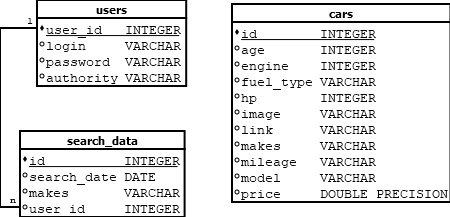
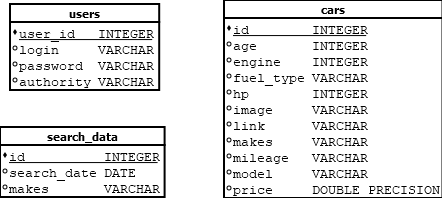
11.16

Changed region(s): [[0.5, 0.0, 1.0, 1.0], [0.0, 0.0, 0.4412, 0.4848], [0.0, 0.5758, 0.4118, 1.0]]

diff --git a/szakdolgozat/chapters/3_design.tex b/szakdolgozat/chapters/3_design.tex
@@ -1,12 +1,12 @@
 \Chapter{Hasonló célú szoftverek és szolgáltatások}
 
-Ebben a fejezetben arról lesz szó, hogy milyen fajta használtautó hirdető és milyen aggregáló webalkalmazások léteznek. Betekintést kapunk arra, hogy milyen hasonló szoftverek érhetők el.
+Ebben a fejezetben arról lesz szó, hogy milyen fajta használt autó hirdető és milyen aggregáló webalkalmazások léteznek. Betekintést kapunk arra, hogy milyen hasonló szoftverek érhetők el.
 
-\Section{Használtautó hirdető oldalak}
+\Section{Használt autó hirdető oldalak}
 
 Mióta elkezdték gyártani a különböző gépjárműveket, szinte vele egy időben lett lehető-
-ségük az embereknek használtautók megvásárlására. Eleinte csak a heti lapok hirdetés rovatában látták, ha valaki árulta az autóját, és ott csak leírást láttak az autóról nem volt kép. Később sorba jelentek meg különböző autós témájú újságok, ahol lehetett autókat hirdetni méghozzá már képpel, így már látható is volt az autó. 
-Az Internet elterjedésével, elkezdtek fejleszteni különböző webalkalmazásokat. Volt közöttük olyan is, amit használtautó hirdetésre fejlesztettek ki. Számtalan ilyen oldal található meg, de van kettő, ami nekem személyes kedvencem. Az egyik a JóAutók.hu a másik pedig a Használtautó.hu.
+ségük az embereknek használt autók megvásárlására. Eleinte csak a heti lapok hirdetés rovatában látták, ha valaki árulta az autóját, és ott csak leírást láttak az autóról nem volt kép. Később sorba jelentek meg különböző autós témájú újságok, ahol lehetett autókat hirdetni méghozzá már képpel, így már látható is volt az autó. 
+Az Internet elterjedésével, elkezdtek fejleszteni különböző webalkalmazásokat. Volt közöttük olyan is, amit használt autó hirdetésre fejlesztettek ki. Számtalan ilyen oldal található meg, de van kettő, ami nekem személyes kedvencem. Az egyik a JóAutók.hu a másik pedig a Használtautó.hu.
 
 \subsection{JóAutók}
 A JóAutók \cite{JoAuto} csak autók hirdetésére alkalmas, más gépjárművek vagy motorkerékpá-
@@ -32,8 +32,8 @@ Ha nekünk nem tetszik az, hogy az összes autót kiadja az oldal, akkor van leh
 
 \subsection{Használtautó.hu}
 
-A Használtautó.hu szerintem Magyarország legnépszerűbb használtjármű hirdető olda-
-la, mivel itt van a legtöbb használt-autó hirdetés (2022.11.03-án Használtautó.hu-n 72 ezer hirdetés volt elérhető még a JóAutók.hu-n csak 14 ezer hirdetés állt rendelkezésre). Ezen a weboldalon személyautótól kezdve munkagépeken keresztül hajók, autóbuszok és lakókocsik vásárlására és eladására is van lehetőség, tehát egy nagyon széles körű weboldalról beszélünk amit a \ref{fig:hasznaltauto}. ábra is szemléltet.
+A Használtautó.hu szerintem Magyarország legnépszerűbb használt jármű hirdető olda-
+la, mivel itt van a legtöbb használt autó hirdetés (2022.11.03-án Használtautó.hu-n 72 ezer hirdetés volt elérhető még a JóAutók.hu-n csak 14 ezer hirdetés állt rendelkezésre). Ezen a weboldalon személyautótól kezdve munkagépeken keresztül hajók, autóbuszok és lakókocsik vásárlására és eladására is van lehetőség, tehát egy nagyon széles körű weboldalról beszélünk amit a \ref{fig:hasznaltauto}. ábra is szemléltet.
 
 A JóAutóktól eltérően itt először meg tudjuk adni a keresési feltételeinket, hogy milyen autók hirdetéseit szeretnénk látni.
 

diff --git a/szakdolgozat/chapters/1_introduction.tex b/szakdolgozat/chapters/1_introduction.tex
@@ -1,12 +1,12 @@
 \Chapter{Bevezetés}
 
-A mai világban kevés olyan ember van, aki ne használna személygépjárművet, és ennek köszönhetően nagyon gyorsan cserélődnek az autók a használt autó piacon. Nem sok mindenki engedheti meg magának a legújabb autóknak a megvételét, főleg akkor ha fiatal, és még nincs teljes munkaidős állása. Erre nagyon sok használt-autó hirdető webalkalmazás épül, ahol nagyon sok ember keresi nap mint nap a magának megfelelő autót, és mivel gyorsan cserélődnek a használt-autók, előbb-utóbb meg is fogja találni a számára megfelelőt.
+A mai világban kevés olyan ember van, aki ne használna személygépjárművet, és ennek köszönhetően nagyon gyorsan cserélődnek az autók a használt autó piacon. Nem sok mindenki engedheti meg magának a legújabb autóknak a megvételét, főleg akkor ha fiatal, és még nincs teljes munkaidős állása. Erre nagyon sok használt autó hirdető webalkalmazás épül, ahol nagyon sok ember keresi nap mint nap a magának megfelelő autót, és mivel gyorsan cserélődnek a használt autók, előbb-utóbb meg is fogja találni a számára megfelelőt.
 
 Emellett nagyon sok ember jobban preferálja az online vásárlást, és így rengeteg webshop elérhető az Interneten. Léteznek olyan weboldalak is, melyek célja az aggregá-
 lás, ami azt jelenti, hogy itt nagyon sok webáruház termékei megtalálhatóak, és ez így nagyban gyorsítja a vásárlásnak a folyamatát, mivel nem kell több oldalt is átnéznie, hanem egy helyen megtalál mindent.
 
-Szakdolgozatomban azt szeretném bemutatni, hogy milyen használt-autó és aggre-
-gáló weboldalt ismerek. Betekintést fogunk kapni egy használt-autó aggregáló webalkal-
+Szakdolgozatomban azt szeretném bemutatni, hogy milyen használt autó és aggre-
+gáló weboldalt ismerek. Betekintést fogunk kapni egy használt autó aggregáló webalkal-
 mazás fejlesztésébe a tervezéstől a megvalósításig. 
 
 A szakdolgozat elkészítéséhez majd fel tudom használni a Webtechnológiák nevű tantárgyból és a szakmai gyakorlatom alatt szerzett tudásomat. Ez alapján esett a választásom a Java (Spring Boot), Angular és PostgreSQL technológiák használatára.

diff --git a/szakdolgozat/cover/hasznalati.tex b/szakdolgozat/cover/hasznalati.tex
@@ -15,4 +15,4 @@ A mellékelt adathordozón a következő jegyzékek és fájlok találhatók.
 
 A Fronted futtatásához a \textit{Visual Studio Code} fejlesztőkörnyezetre lesz szükséges. A VSCode tartalmaz egy terminált, ott kell lefuttatni az \textit{npm install} parancsot, ekkor létrejön egy \textit{node\_modules} mappa, amibe letöltődik az összes szükséges fájl. Következő lépésben az \textit{ng serve} paranccsal el is indíthatjuk a programot ami a \textit{localhost:4200}-on fog futni.
 
-Backend futtatásához az \textit{IntelliJ IDEA Community Edition}-re lesz szükségünk ami ingyenes, mindenki számára elérhető. Miután ott megnyitottuk az alkalmazásban mappát akkor futtathatjuk is a programot ami a \textit{localhost:8080}-on fog futni.
+Backend futtatásához az \textit{IntelliJ IDEA Community Edition}-re lesz szükségünk ami ingyenes, mindenki számára elérhető. Miután ott megnyitottuk az alkalmazásban mappát akkor futtathatjuk is a programot ami a \textit{localhost:8080}-on fog futni. A program futtatásához először létre kell hozni a PostgreSQL-ben a megfelelő adatbázis szervert.

diff --git a/szakdolgozat/chapters/8_summary.tex b/szakdolgozat/chapters/8_summary.tex
@@ -1,6 +1,6 @@
 \Chapter{Összefoglalás}
 
-A szakdolgozatom egy használt-autó aggregáló webalkalmazás tervezése és elkészítése volt, amihez tartozik az ehhez használt technológiák és eszközök bemutatása.
+A szakdolgozatom egy használt autó aggregáló webalkalmazás tervezése és elkészítése volt, amihez tartozik az ehhez használt technológiák és eszközök bemutatása.
 
 A szakdolgozatom első elméleti részében ismertettem azokat a technológiákat és eszközöket, amiket használtam a fejlesztés közben. A szakdolgozatom elkészítése alatt sokkal nagyobb betekintés nyertem a webfejlesztésbe, és azon belül jobban megismer-
 hettem a Spring Boot és Angular keretrendszert és a PostgreSQL adatbázist.

diff --git a/szakdolgozat/chapters/4_implementation.tex b/szakdolgozat/chapters/4_implementation.tex
@@ -120,7 +120,8 @@ felhasználók (\textit{users}), az autók (\textit{cars}) és a keresési adato
 \label{fig:DataTable}
 \end{figure}
 
-A \textit{users} és \textit{search\_data} tábla között egy-több kapcsolat lesz, mivel egy \textit{user}-hez több keresési előzmény is tartozhat, de egy kereséshez csak egy felhasználó.
+A \textit{users} és \textit{search\_data} tábla között nem lesz kapcsolat, mivel a statisztika kimuta-
+tásához lényegtelen, hogy ki keresett rá az adott márkára.
 
 A \textit{cars} tábla független lesz a többitől, mivel ide az adatok más oldalról lesznek letöltve, és így nem tartozik a \textit{users} táblához.
 

diff --git a/webcrawler/src/main/java/com/example/webcrawler/services/DataService.java b/webcrawler/src/main/java/com/example/webcrawler/services/DataService.java
@@ -33,7 +33,6 @@ public class DataService  {
             Data data = new Data();
             data.setMakes(makes);
             data.setDate(Date.valueOf(LocalDate.now()));
-            data.setUser(user);
             dataRepository.save(data);
         }else{
         }

diff --git a/webcrawler/src/main/java/com/example/webcrawler/entities/User.java b/webcrawler/src/main/java/com/example/webcrawler/entities/User.java
@@ -29,8 +29,4 @@ public class User {
 
     @Column(name = "authority")
     private String authority;
-
-    @OneToMany(mappedBy = "user")
-    @JsonIgnore
-    private Set<Data> datas;
 }

diff --git a/webcrawler/src/main/java/com/example/webcrawler/entities/Data.java b/webcrawler/src/main/java/com/example/webcrawler/entities/Data.java
@@ -24,8 +24,4 @@ public class Data {
 
     @Column(name = "searchDate")
     private Date date;
-
-    @ManyToOne
-    @JoinColumn(name = "user_id")
-    private User user;
 }
